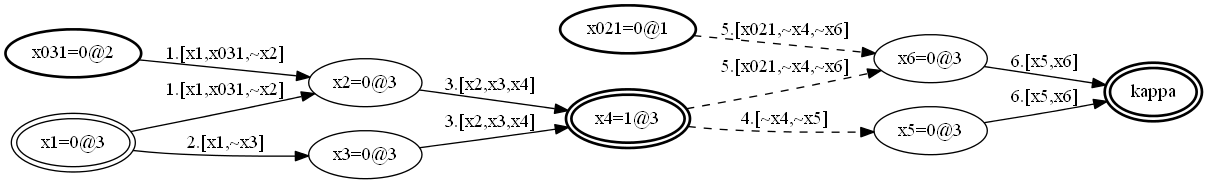
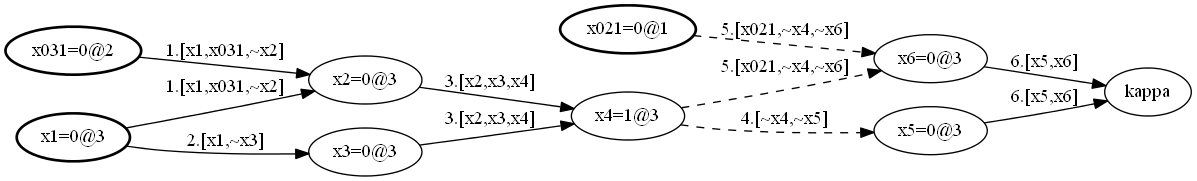
Tutorial 1.4

diff --git a/learnsat/docs/learnsat-tutorial.tex b/learnsat/docs/learnsat-tutorial.tex
@@ -23,7 +23,7 @@
 \parindent=0pt
 
 \title{\bfseries \ls --- Tutorial\\\mbox{}\\\mbox{}\\
-\bfseries\normalsize Version 1.3}
+\bfseries\normalsize Version 1.4}
 
 \author{\bfseries Mordechai (Moti) Ben-Ari\\\mbox{}\\
 \url{http: //www.weizmann.ac.il/sci-tea/benari/}}
@@ -47,6 +47,7 @@ California, 94105, USA.
 
 \vspace*{\fill}
 
+\setcounter{page}{0}
 \newpage
 
 \chapter*{Overview}
@@ -90,45 +91,47 @@ archive.}}
 \end{center}
 
 \begin{itemize}
-\item There is an unbounded set $\mathcal{P}$ of propositional
-\emph{variables}, \emph{atomic propositions} or \emph{atoms}.
+\item There is an unbounded set $\mathcal{P}$, whose elements are called
+\emph{propositional variables} or \emph{atoms}.
 \item There is one unary operator \emph{negation}, denoted $\ngg$.
 \item A \emph{literal} is an atom or the negation of an atom.
 \item An atom is a \emph{positive literal} and the negation of an atom
 is a \emph{negative literal}.
-\item Let $l$ be a literal. $l^c$, the complement of $l$, is $\ngg p$ if
+\item Let $l$ be a literal. $l^c$, the \emph{complement} of $l$, is $\ngg p$ if
 $l=p$ for some atom p and is $p$ if $l=\ngg p$.
 \item $\{l,l^c\}$ is a \emph{complementary pair of literals}.
 \item A \emph{clause} is a set of literals.
 \item The \emph{empty clause} is a clause that is the empty set.
-\item A \emph{formula} (in \emph{clausal form}) is a set of clauses.
-\item The \emph{empty formuala} is a formula that is the empty set.
+\item A \emph{formula} (\emph{in clausal form}) is a set of clauses.
+\item The \emph{empty formula} is a formula that is the empty set.
 
 \item An \emph{interpretation} is a map $\mathcal{I}: \mathcal{P}
 \rightarrow \{T,F\}$.
 
 \item $\mathcal{I}(l)=T$, a literal $l$ is \emph{true} in an
-interpretation, if: $l$ is an atom $p$ and $\mathcal{I}(p)=T$, or $l$ is
-the negation of an atom $p$ and $\mathcal{I}(p)=F$. Otherwise,
-$\mathcal{I}(l)=F$, $l$ is \emph{false}.
+interpretation, iff: $l$ is an atom $p$ and $\mathcal{I}(p)=T$, or $l$ is
+the negation of an atom $p$ and $\mathcal{I}(p)=F$.
+Otherwise, $\mathcal{I}(l)=F$, $l$ is \emph{false}.
 
 \item $\mathcal{I}(C)=T$, a clause $C$ is \emph{true} in an
-interpretation $\mathcal{I}$, if: for \emph{at least one} $l\in C$,
-$\mathcal{I}(l)=T$; otherwise, if $\mathcal{I}(l)=F$ for \emph{all}
-$l\in C$, $\mathcal{I}(C)=F$, $C$ is \emph{false}.
+interpretation $\mathcal{I}$, iff: for \emph{at least one} $l\in C$,
+$\mathcal{I}(l)=T$; otherwise ($\mathcal{I}(l)=F$ for \emph{all}
+$l\in C$), $\mathcal{I}(C)=F$, $C$ is \emph{false}.
 
 \item $\mathcal{I}(A)=T$, a formula $A$ is \emph{true} in an
-interpretation, if: for \emph{all} $C\in A$, $\mathcal{I}(C)=T$;
-otherwise, if $\mathcal{I}(C)=F$ for \emph{all} $C\in A$,
+interpretation, iff: for \emph{all} $C\in A$, $\mathcal{I}(C)=T$;
+otherwise ($\mathcal{I}(C)=F$ for \emph{some} $C\in A$),
 $\mathcal{I}(A)=F$, $A$ is \emph{false}.
 
 \item A formula $A$ is \emph{satisfiable} if there exists an
-interpretation $\mathcal{I}$ such that $\mathcal{I}(A)=T$; otherwise $A$
-is \emph{unsatisfiable}.
+interpretation $\mathcal{I}$ such that $\mathcal{I}(A)=T$; $\mathcal{I}$
+\emph{satisfies} $A$. If there is no such interpretation, $A$ is
+\emph{unsatisfiable}.
 
 \item $\mathcal{I}$ is a \emph{partial interpretation} for $A$ if it
-maps \emph{some but not necessarily all} of the atoms in $A$ into
-$\{T,F\}$.
+maps \emph{some} of the atoms in $A$ into $\{T,F\}$. A partial
+interpretation $\mathcal{I}$ satisfies $A$ if any extension of
+$\mathcal{I}$ satisfies $A$.
 
 \item Let $A$ be a formula and let $\mathcal{I}$ be a partial
 interpretation for $A$. $A'=\mathcal{I}(A)$, the formula obtained by
@@ -137,7 +140,7 @@ clauses $C\in A$ such that for some $l\in C$, $\mathcal{I}(l)=T$, and by
 removing from the remaining clauses all literals $l'$ such
 $\mathcal{I}(l')=F$.
 
-\item (Syntactical) A clause $C$ is a \emph{unit clause} if the clause
+\item (Syntactical) A clause $C$ is a \emph{unit clause} if $C$
 has exactly one literal.
 
 \item (Semantical) A clause $C$ is a \emph{unit clause} under a partial
@@ -152,22 +155,22 @@ and for all $l\in C, l\neq l'$, $\mathcal{I}(l)=F$.
 \textbf{Algorithms}
 \end{center}
 
-\textbf{Unit clause rule} Let $A$ be a formula and $\mathcal{I}$ a
-partial interpretation. Construct $A'$ from $A$ by deleting every clause
-containing $l$ and by deleting $l^{c}$ from every (remaining) clause.
-Construct $\mathcal{I}'$ as the partial interpretation obtained by
-adding $\mathcal{I}(l)=T$.
+\textbf{Unit clause rule} Let $A$ be a formula, $C=\{l\}$ a unit clause
+in $A$, and $\mathcal{I}$ a partial interpretation. Construct
+$\mathcal{I}'$ as the partial interpretation obtained by adding
+$\mathcal{I}(l)=T$. Construct $A'$ by evaluating $A$ under
+$\mathcal{I}'(l)$ (delete $C$ and delete $l^{c}$ from every clause in
+which it appears).
 
 \textbf{Unit propagation} Repeat the unit clause rule obtaining $A',
 A'', A''', \ldots$, and
 $\mathcal{I}',\mathcal{I}'',\mathcal{I}''',\ldots$, until the unit
 clause rule no longer applies.
 
-\textbf{Resolution rule}
-Let $C_{1},C_{2}$ be clauses such that $l\in C_{1},l^{c}\in C_{2}$. $C$,
-the \emph{resolvent} of $C_{1}$ and $C_{2}$, is the clause:
-$Res(C_{1},C_{2})=(C_{1}-\{l\})  \cup (C_{2}-\{l^{c}\})$.
-$C_{1}$ and $C_{2}$ are the \emph{parent clauses} of $C$.
+\textbf{Resolution rule} Let $C_{1},C_{2}$ be clauses such that $l\in
+C_{1},l^{c}\in C_{2}$. $C$, the \emph{resolvent} of $C_{1}$ and $C_{2}$,
+is the clause $(C_{1}-\{l\}) \cup (C_{2}-\{l^{c}\})$. $C_{1}$ and
+$C_{2}$ are the \emph{parent clauses} of $C$.
 
 \bigskip
 
@@ -189,8 +192,8 @@ and only if $C_1$ and $C_2$ are satisfiable under the same
 interpretation.
 
 \item The empty clause is unsatisfiable. The empty formula is
-satisfiable.\footnote{Actually, it is valid but we did not define
-validilty.}
+satisfiable. (Actually, the empty clause is valid but we did not define
+validilty.)
 
 \end{itemize}
 
@@ -201,8 +204,8 @@ validilty.}
 \end{center}
 
 \textbf{Input}: A formula $A$.\\
-\textbf{Output}: Return \emph{unsatisfiable} or a partial interpretation
-that satisfies $A$.
+\textbf{Output}: Return \emph{unsatisfiable} or a (possibly partial)
+interpretation that satisfies $A$.
 
 The algorithm is expressed as the recursive function
 $\textit{DPLL}(B,\mathcal{I})$ with parameters: a formula $B$ and a
@@ -218,18 +221,18 @@ $\textit{DPLL}(A,\{\})$.
 the final formula and partial interpretation.
 
 \begin{itemize}
-\item If $B'$ contains the empty clause return \emph{unsatisfiable};
-\item If $B'$ is the empty formula return $\mathcal{I}'$;
+\item If $B'$ contains the empty clause, return \emph{unsatisfiable};
+\item If $B'$ is the empty formula, return $\mathcal{I}'$;
 \item (otherwise, continue).
 \end{itemize}
 \item \emph{Choose} an atom $p$ in $B'$, \emph{choose} a truth value
 $\textit{val}$ as $T$ or $F$, and let $\mathcal{I}_1$ be the
-partial interpretation obtained by adding the assignment of
+partial interpretation obtained by adding the assignment
 $p\rightarrow \textit{val}$  to $\mathcal{I}'$. 
 
 \item \textit{result} $\leftarrow$ $\textit{DPLL}(B',\mathcal{I}_1)$.
 \begin{itemize}
-\item If \textit{result} is not \emph{unsatisfiable} return \textit{result};
+\item If \textit{result} is not \emph{unsatisfiable}, return \textit{result};
 \item (otherwise, continue).
 \end{itemize}
 
@@ -440,9 +443,7 @@ Select \p{tree} to see a tree of the assignments
 semantic tree where the nodes are the variables and the edges are the
 assignments. Here, the nodes are the assignments and the edges are not
 labeled.} The display option \p{label} was also selected to add the
-antecedent clauses to nodes that implied by unit propagation. Select
-\p{tree\_inc} to generate the trees incrementally, whenever a conflict
-is reached.
+antecedent clauses to nodes that implied by unit propagation.
 
 \begin{figure}
 \begin{center}
@@ -456,6 +457,9 @@ propagation are in black; conflict nodes have a double border; the node
 where the satisfying assignments are found has a triple border. The
 search backtracked to assign 1 to \p{x1} after trying 0 and to assign 1
 to \p{x3} after trying 0.
+
+Select \p{tree\_inc} to generate the trees incrementally, whenever a
+conflict is reached.
 
 \section{Improving efficiency with learned clauses}
 
@@ -510,7 +514,7 @@ the tree of assignments (Figure~\ref{tree2}).
 
 When a conflict clause is found, an \emph{implication graph} is
 constructed and used to learn a clause. Select \p{graph} to display a
-textual representation of an graph: a list of nodes and a list of
+textual representation of a graph: a list of nodes and a list of
 edges labeled with the antecedent clauses (because \p{label} was also
 selected):
 
@@ -553,9 +557,9 @@ with the assignments. An edge of the graph is labeled with the
 \emph{antecedent} clause of its target node. This is the unit clause
 that implied the assignment labeling that node. For example, the
 decision assignments \p{x1=0@3}, \p{x031=0@2} cause \verb+[x1,x031,~x2]+
-to become a unit clause and therefore this clause implies the assignment
-of 0 to \p{x2}. The assignment receives the same level as the last
-decision assignment so its node is labeled \p{x2=0@3}.
+to become a unit clause \verb+[~x2]+ and therefore this clause implies
+the assignment of 0 to \p{x2}. The assignment receives the same level as
+the last decision assignment so its node is labeled \p{x2=0@3}.
 
 For each non-source node, there is an incoming edge for each literal in
 the unit clause except the one whose assignment is being implied. The
@@ -583,12 +587,12 @@ Sections~\ref{learned.dom}--\ref{learned.res} present algorithms that
 can find \emph{shorter} learned clauses that are more likely to become
 conflict clauses as the algorithm continues. Section~\ref{learned.dom}
 describes how to learn a clause by computing a dominator in the
-implication graph. Section~\ref{learned.res} describes how to learn a
+implication graph and Section~\ref{learned.res} describes how to learn a
 clause resolving backwards from the conflict node.
 
 The two algorithms are always run one after the other, but only the
 clause learned by resolution is actually learned. You can trace either
-one or both of the algorithms. Display option \p{dominator} traces the
+or both of the algorithms. Display option \p{dominator} traces the
 computation of a dominator, and the options \p{learned}, \p{resolvent}
 and \p{uip} trace the computation by resolution.
 
@@ -599,7 +603,7 @@ and \p{uip} trace the computation by resolution.
 Here again is the implication graph:
 
 \begin{center}
-\includegraphics[keepaspectratio=true,width=\textwidth]{graph-bw}
+\includegraphics[keepaspectratio=true,width=\textwidth]{dom-bw}
 \end{center}
 
 Consider all the (four) paths from the \emph{last} decision assignment
@@ -645,11 +649,11 @@ Learned clause from dominator (not used): [x021,~x4]
 \end{verbatim}
 
 The dotted lines form a \emph{cut}: their source nodes are the
-assignments that define the literals in the learned clause. The source
-nodes of any cut can define a learned clause because assignments to
-these literals necessarily lead to the conflict. The cut we chose is
-from the UIP and includes an edge on each path from a decision node that
-is not dominated by the UIP.
+assignments that define the literals in the learned clause. These nodes
+define a learned clause because assignments to the literals necessarily
+lead to the conflict. The cut we chose includes the edges whose source
+node is the UIP together with an edge on each path from a decision node
+that is not dominated by the UIP.
 
 \newpage
 
@@ -757,11 +761,10 @@ clause and the other to a satisfying assignment.
 \chapter{The pigeonhole principle}\label{ch.pigeon}
 
 The pigeonhole principle states that if we place $n+1$ pigeons in $n$
-holes then one hole contains at least two pigeons. Therefore, a
-formula stating that all pigeons are in different holes must be
-unsatisfiable. Let \p{pij} be an atomic proposition whose intended
-meaning is that pigeon \p{i} is in hole \p{j}; for two holes and three
-pigeons, the set of clauses is:
+holes then one hole contains at least two pigeons. Therefore, a formula
+stating that all pigeons are in different holes must be unsatisfiable.
+Let \p{pij} be an atom whose intended meaning is that pigeon \p{i} is in
+hole \p{j}; for two holes and three pigeons, the set of clauses is:
 
 \begin{verbatim}
   [p11, p12],   [p21, p22],   [p31, p32],   % Each pigeon in hole 1 or 2 
@@ -805,8 +808,9 @@ of nine.
 
 Let us look now at the implication graphs. The graph for the two-hole
 formula is shown in Figure~\ref{pigeon2} (shown top-to-bottom instead of
-left-to-right). The conflict clause is \verb+[~p12,~p32]+ and the
-dominator is the nodes labeled \verb+p12=1@1+. Since \emph{all} nodes
+left-to-right). The conflict clause is \verb+[~p12,~p32]+ (stating
+that either pigeon~1 or pigeon~3 is not in hole 2) and the
+dominator is the node labeled \verb+p12=1@1+. Since \emph{all} nodes
 are assigned at level~1, by resolving backwards we should be able to
 learn the (unit) clause \verb+[~p12]+.
 
@@ -838,18 +842,16 @@ Learned clause from resolution: [~p12]
 \end{verbatim}
 
 The implication graph for the three-hole formula is shown in
-Figure~\ref{pigeon3}.
-The node labeled \verb+p22=1@3+ is easily seen to be a dominator and the
-clause learned by resolution is \verb+[p43,p33,~p22]+. The dashed line
-shows the \emph{cut}: it is sufficient to assign to the three literals
-before the cut in order to obtain a conflict, and the complements of
-these literals form the learned clause.
+Figure~\ref{pigeon3}. The node labeled \verb+p22=1@3+ is a dominator and
+the clause learned by resolution is \verb+[p43,p33,~p22]+. The dashed
+line shows the \emph{cut}: it is sufficient to assign to the three
+literals before the cut in order to obtain a conflict, and the
+complements of these literals form the learned clause.
 
-Unlike the implication graphs in the examples given in the literature
-such as \cite{mlm}, the literals that form part of the learned clause
-come from assignments at lower levels that are \emph{not} decision
-assignments, but assignments implied by unit propagation (\verb+p43+ and
-\verb+p33+ assigned at level~2).
+The literals that form part of the learned clause come from assignments
+at lower levels that are \emph{not} decision assignments, but
+assignments implied by unit propagation: \verb+p43+ and \verb+p33+ which
+are assigned at level~2.
 
 \begin{figure}
 \begin{center}
@@ -862,10 +864,10 @@ assignments, but assignments implied by unit propagation (\verb+p43+ and
 
 \chapter{The Four-Queens Problem}\label{ch.queens}
 
-The $n$-queens problem is to place $n$ queens on a chess board such that
-no queen can capture another. It is usually posed in the context of an
-standard $8\times 8$ board, but for simplicity we look at a $4\times 4$
-board. A solution is: 
+The $n$-queens problem is to place $n$ queens on an $n \times n$ chess
+board such that no queen can capture another. It is usually posed in the
+context of an standard $8\times 8$ board, but for simplicity we look at
+a $4\times 4$ board. A solution is:
 
 \begin{center}
 \unitlength=1.0pt
@@ -973,9 +975,10 @@ which lead to conflicts. Let us look at \p{p21=0@4}. \p{p21=0@4} implies
 \p{p22=1@4} because there has to be a queen in the second column. The
 next implications are \p{p42=0@4}, \p{p43=1@4}, \p{p33=0@4}, \p{p31=1@4}
 (see the right of Figure~\ref{queens}). Clearly, there is a conflict
-because the clause \verb+[~p22,~p31]+ is false. The intended meaning is
-that the queens on those squares can capture each other so this is not a
-solution.
+because the clause \verb+[~p22,~p31]+ is false. The intended meaning of
+this clause is that either there is no queen in (column 2, row 2) or
+there is no queen in (column 3, row 1) because they can capture each
+other.
 
 We leave it to the reader to examine the sequence of assignments
 following the decision assignment \p{p21=1@4} and to show that it too
@@ -983,15 +986,14 @@ leads to a conflict.
 
 Figure~\ref{queens-ig} shows the implication graph with the dominator
 node \verb+p22=1@4+ and the cut that defines the learned clause
-\verb+[~p22,p32,p34,p41,p44]+. (The image is too small to read, but you
-can find the original image in the archive or you can regenerate it
-yourself.) The learned clause is such that the decision assignments at
-the lower levels (\verb+p11=0@1+, \verb+p12=0@2+, \verb+p13=0@3+) make
-it a unit clause \verb+[~p22]+ and force the assignment \p{p22=1@4},
-regardless of the assignment to \p{p21}. Therefore, non-chronological
-backtracking can skip the assignment \p{p21=1@4} and continue with the
-previous decision assignment. The assignment \p{p13=1@3} instead of
-\p{p13=0@3} leads to a satisfying assignment by unit propagation alone!
+\verb+[~p22,p32,p34,p41,p44]+. The learned clause is such that the
+decision assignments at the lower levels (\verb+p11=0@1+,
+\verb+p12=0@2+, \verb+p13=0@3+) make it a unit clause \verb+[~p22]+ and
+force the assignment \p{p22=1@4}, regardless of the assignment to
+\p{p21}. Therefore, non-chronological backtracking can skip the
+assignment \p{p21=1@4} and continue with the previous decision
+assignment. The assignment \p{p13=1@3} instead of \p{p13=0@3} leads to a
+satisfying assignment by unit propagation alone!
  
 \begin{figure}[b]
 \begin{center}
@@ -1006,7 +1008,7 @@ previous decision assignment. The assignment \p{p13=1@3} instead of
 G.S. Tseitin used formulas associated with graphs in his research on the
 complexity of resolution.\footnote{See \cite[Section 4.5]{mlcs} for a
 formal presentation of Tseitin formulas.} Consider the following
-connected, undirected graph whose vertices are labeled with 0 or 1 and
+connected undirected graph whose vertices are labeled with 0 or 1 and
 whose edges are labeled with letters:
 
 \begin{center}
@@ -1027,7 +1029,7 @@ whose edges are labeled with letters:
 \end{center}
 
 The formula associated with this graph is defined as follows: for
-each vertices, construct the set of clauses whose atoms are the letters
+each vertex, construct the set of clauses whose atoms are the letters
 labeling the incident edges, such that the parity (sum modulo 2) of the
 number of negated literals is not equal to the label of the vertex:
 
@@ -1039,8 +1041,11 @@ number of negated literals is not equal to the label of the vertex:
 \end{verbatim}
 
 For example, since $\{p, r, s\}$ are incident with a vertex labeled 1,
-the number of negated literals has to be 0 or 2. If the number of
-vertices labeled 1 is odd, the formula is unsatisfiable.
+the number of negated literals in a cluase on these atoms has to be 0 or
+2.
+
+If the number of vertices labeled 1 is odd, the formula is
+unsatisfiable.
 
 \newpage
 
